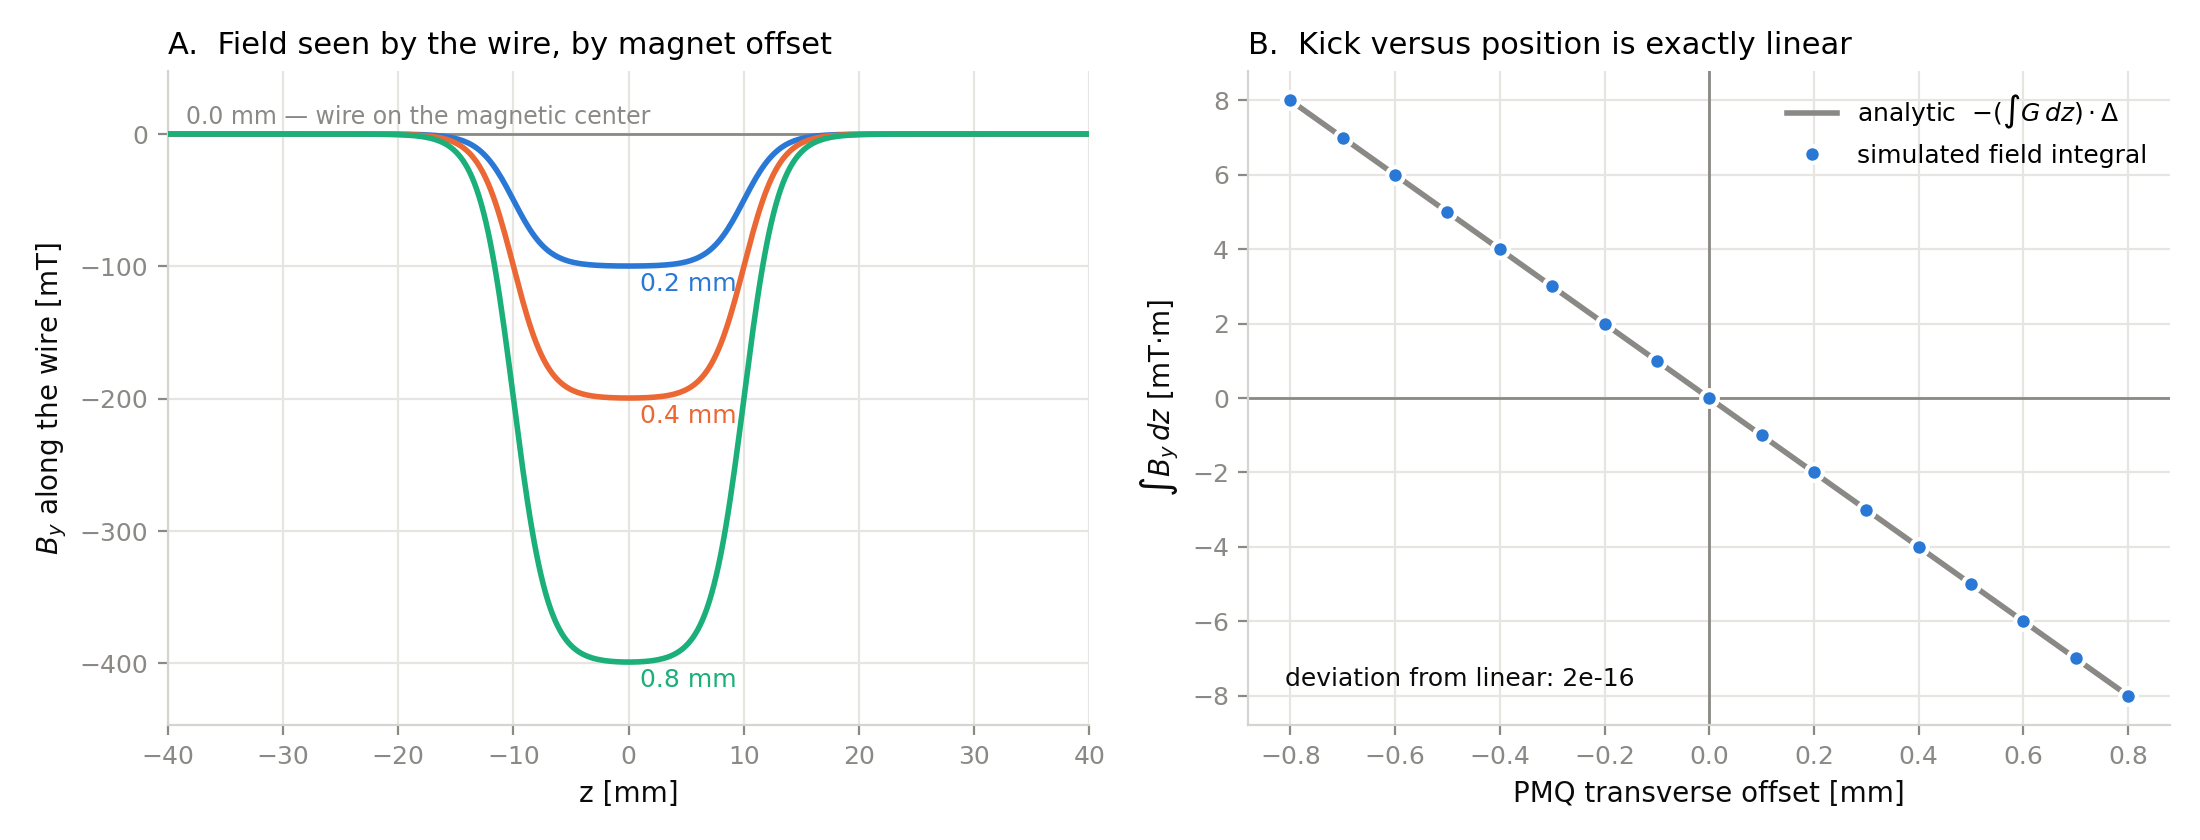
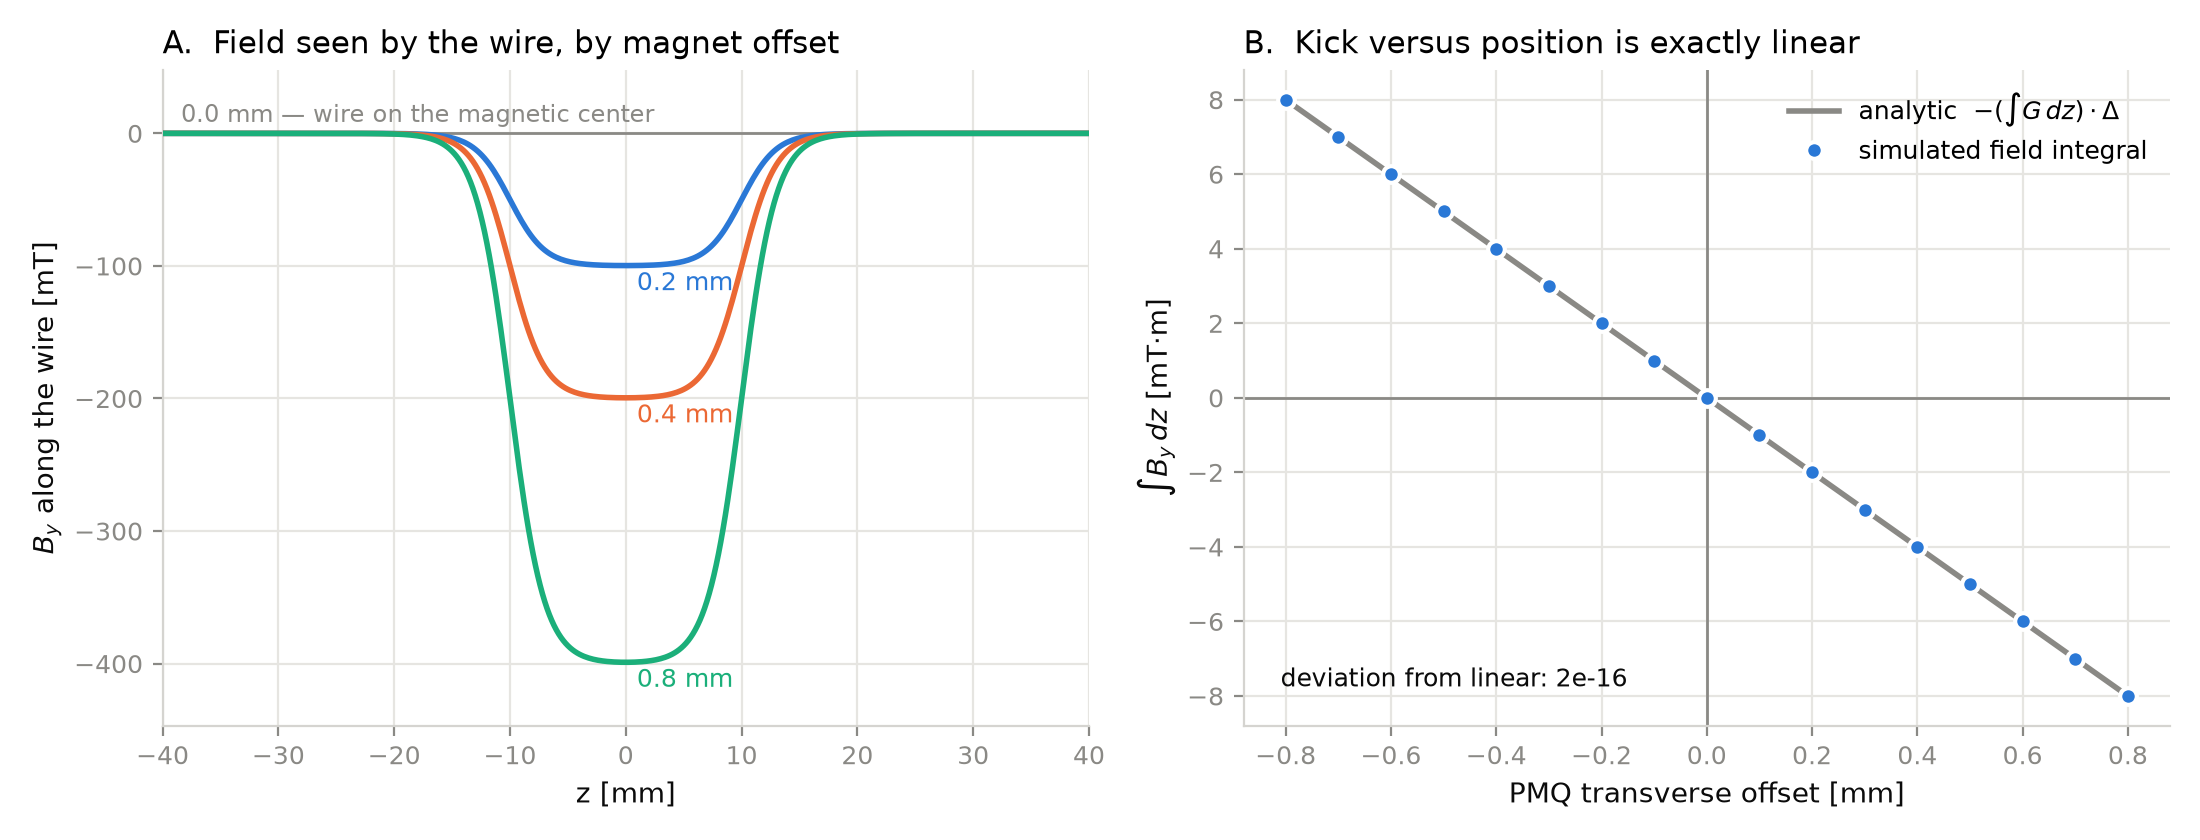
requirements

diff --git a/README.md b/README.md
@@ -120,15 +120,24 @@ Worth knowing before attributing a measured nonlinearity to magnet alignment.
 
 ## Running
 
-```bash
-VENV=/Users/aliu3203/dev/researchMusumeci/pmq_measurements/.venv/bin/python
+This project owns its environment in `.venv/` (Python 3.14, numpy 2.5.1,
+scipy 1.18.0, matplotlib 3.11.1):
 
-$VENV checks.py                 # 8/8 checks pass, with numbers printed
-$VENV example_offset_scan.py    # writes offset_scan.png
+```bash
+cd pmq_sim
+.venv/bin/python checks.py                 # 8/8 checks pass, with numbers printed
+.venv/bin/python example_offset_scan.py    # writes offset_scan.png
 ```
 
-That venv has numpy 2.4.5, scipy 1.17.1, matplotlib and pandas. (The repo-root
-`.venv` has only pip/setuptools and is unusable.)
+To rebuild it from scratch:
+
+```bash
+python3 -m venv .venv
+.venv/bin/python -m pip install -r requirements.txt
+```
+
+(The repo-root `.venv` has only pip/setuptools and is unusable; `pmq_measurements`
+has its own separate environment.)
 
 `checks.py` prints numbers rather than passing silently, because the point is to see
 *how well* each identity holds. Checks 2 and 4 are the substantive ones: check 2
